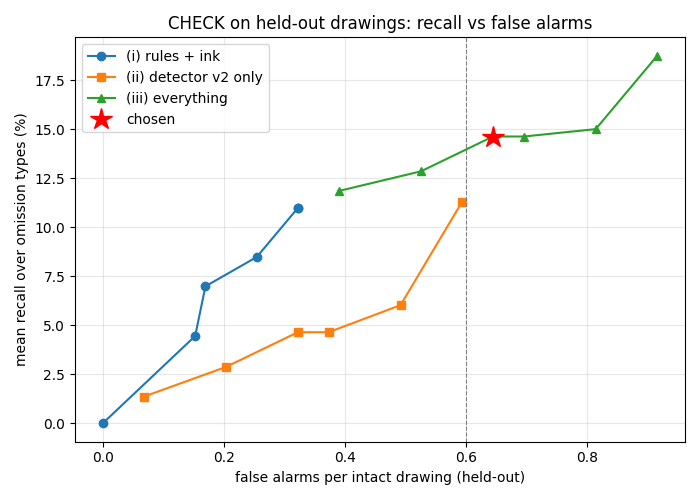
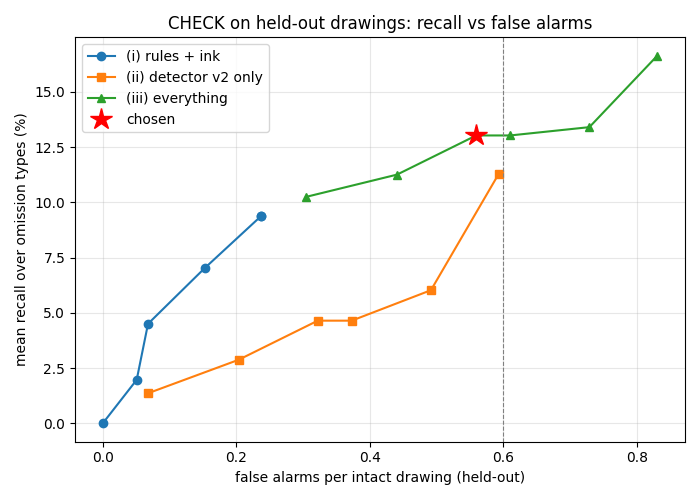
R6/R7/ink tiers evaluated: held-out 13% at 0.56 FA, check set 3/12

diff --git a/outputs/stage2/check_curve.md b/outputs/stage2/check_curve.md
@@ -1,42 +1,42 @@
 # Held-out trade-off: recall vs false alarms (parser v2B, detector v2, erasure v2)
 
-59 intact + 200 omissions (image_eval's held-out cases). Chosen setting: 0.9 / 20 px detector, C8 >= 200.0, R5, ink < 3.0 (relevant doors). Figure: outputs/stage2/check_curve.png.
+59 intact + 200 omissions (image_eval's held-out cases). Chosen setting: see 'Chosen point' at the end. Figure: outputs/stage2/check_curve.png.
 
 ## (i) rules + ink
 
-| detector (threshold / min blob) | C8 min area | R5 | ink check | false alarms / intact | mean recall | door (a) | door (b) | window | wall | railing | fixture | room |
-|---|---|---|---|---|---|---|---|---|---|---|---|---|
-| off | 2756 | off | off | 0.00 | 0% | 0% | 0% | 0% | 0% | 0% | 0% | 0% |
-| off | 200 | off | off | 0.15 | 4% | 24% | 0% | 3% | 0% | 0% | 0% | 4% |
-| off | 200 | on | off | 0.17 | 7% | 24% | 0% | 3% | 3% | 0% | 0% | 18% |
-| off | 200 | on | 0.5 (relevant doors) | 0.25 | 8% | 24% | 7% | 3% | 3% | 0% | 0% | 21% |
-| off | 200 | on | 3.0 (relevant doors) | 0.32 | 11% | 28% | 10% | 3% | 7% | 0% | 0% | 29% |
-| off | 200 | on | 3.0 (relevant doors) | 0.32 | 11% | 28% | 10% | 3% | 7% | 0% | 0% | 29% |
+| detector (threshold / min blob) | C8 min area | R5 | ink: R5 pairs / other interior | R6 | R7 | false alarms / intact | mean recall | door (a) | door (b) | window | wall | railing | fixture | room |
+|---|---|---|---|---|---|---|---|---|---|---|---|---|---|---|
+| off | 2756 | off | off | off | off | 0.00 | 0% | 0% | 0% | 0% | 0% | 0% | 0% | 0% |
+| off | 700 | off | off | off | off | 0.05 | 2% | 14% | 0% | 0% | 0% | 0% | 0% | 0% |
+| off | 700 | on | off | off | off | 0.07 | 5% | 14% | 0% | 0% | 3% | 0% | 0% | 14% |
+| off | 700 | on | 1.5 / off | off | off | 0.15 | 7% | 14% | 7% | 0% | 3% | 0% | 0% | 25% |
+| off | 700 | on | 1.5 / 1.0 | off | off | 0.24 | 9% | 17% | 14% | 0% | 3% | 0% | 3% | 29% |
+| off | 700 | on | 1.5 / 1.0 | x1.2 | off | 0.24 | 9% | 17% | 14% | 0% | 3% | 0% | 3% | 29% |
 
 ## (ii) detector v2 only
 
-| detector (threshold / min blob) | C8 min area | R5 | ink check | false alarms / intact | mean recall | door (a) | door (b) | window | wall | railing | fixture | room |
-|---|---|---|---|---|---|---|---|---|---|---|---|---|
-| 0.98 / 20 px | off | off | off | 0.07 | 1% | 3% | 0% | 3% | 0% | 0% | 3% | 0% |
-| 0.95 / 20 px | off | off | off | 0.20 | 3% | 3% | 0% | 7% | 0% | 0% | 3% | 7% |
-| 0.9 / 20 px | off | off | off | 0.32 | 5% | 3% | 0% | 7% | 0% | 0% | 8% | 14% |
-| 0.8 / 20 px | off | off | off | 0.37 | 5% | 3% | 0% | 7% | 0% | 0% | 8% | 14% |
-| 0.7 / 20 px | off | off | off | 0.49 | 6% | 3% | 0% | 7% | 3% | 0% | 11% | 18% |
-| 0.5 / 20 px | off | off | off | 0.59 | 11% | 7% | 3% | 10% | 7% | 0% | 16% | 36% |
+| detector (threshold / min blob) | C8 min area | R5 | ink: R5 pairs / other interior | R6 | R7 | false alarms / intact | mean recall | door (a) | door (b) | window | wall | railing | fixture | room |
+|---|---|---|---|---|---|---|---|---|---|---|---|---|---|---|
+| 0.98 / 20 px | off | off | off | off | off | 0.07 | 1% | 3% | 0% | 3% | 0% | 0% | 3% | 0% |
+| 0.95 / 20 px | off | off | off | off | off | 0.20 | 3% | 3% | 0% | 7% | 0% | 0% | 3% | 7% |
+| 0.9 / 20 px | off | off | off | off | off | 0.32 | 5% | 3% | 0% | 7% | 0% | 0% | 8% | 14% |
+| 0.8 / 20 px | off | off | off | off | off | 0.37 | 5% | 3% | 0% | 7% | 0% | 0% | 8% | 14% |
+| 0.7 / 20 px | off | off | off | off | off | 0.49 | 6% | 3% | 0% | 7% | 3% | 0% | 11% | 18% |
+| 0.5 / 20 px | off | off | off | off | off | 0.59 | 11% | 7% | 3% | 10% | 7% | 0% | 16% | 36% |
 
 ## (iii) everything
 
-| detector (threshold / min blob) | C8 min area | R5 | ink check | false alarms / intact | mean recall | door (a) | door (b) | window | wall | railing | fixture | room |
-|---|---|---|---|---|---|---|---|---|---|---|---|---|
-| 0.98 / 20 px | 200 | on | 3.0 (relevant doors) | 0.39 | 12% | 28% | 10% | 7% | 7% | 0% | 3% | 29% |
-| 0.95 / 20 px | 200 | on | 3.0 (relevant doors) | 0.53 | 13% | 28% | 10% | 10% | 7% | 0% | 3% | 32% |
-| 0.9 / 20 px | 200 | on | 3.0 (relevant doors) | 0.64 | 15% | 28% | 10% | 10% | 7% | 0% | 8% | 39% |
-| 0.8 / 20 px | 200 | on | 3.0 (relevant doors) | 0.69 | 15% | 28% | 10% | 10% | 7% | 0% | 8% | 39% |
-| 0.7 / 20 px | 200 | on | 3.0 (relevant doors) | 0.81 | 15% | 28% | 10% | 10% | 7% | 0% | 11% | 39% |
-| 0.5 / 20 px | 200 | on | 3.0 (relevant doors) | 0.92 | 19% | 31% | 14% | 14% | 10% | 0% | 16% | 46% |
+| detector (threshold / min blob) | C8 min area | R5 | ink: R5 pairs / other interior | R6 | R7 | false alarms / intact | mean recall | door (a) | door (b) | window | wall | railing | fixture | room |
+|---|---|---|---|---|---|---|---|---|---|---|---|---|---|---|
+| 0.98 / 20 px | 700 | on | 1.5 / 1.0 | x1.2 | off | 0.31 | 10% | 17% | 14% | 3% | 3% | 0% | 5% | 29% |
+| 0.95 / 20 px | 700 | on | 1.5 / 1.0 | x1.2 | off | 0.44 | 11% | 17% | 14% | 7% | 3% | 0% | 5% | 32% |
+| 0.9 / 20 px | 700 | on | 1.5 / 1.0 | x1.2 | off | 0.56 | 13% | 17% | 14% | 7% | 3% | 0% | 11% | 39% |
+| 0.8 / 20 px | 700 | on | 1.5 / 1.0 | x1.2 | off | 0.61 | 13% | 17% | 14% | 7% | 3% | 0% | 11% | 39% |
+| 0.7 / 20 px | 700 | on | 1.5 / 1.0 | x1.2 | off | 0.73 | 13% | 17% | 14% | 7% | 3% | 0% | 13% | 39% |
+| 0.5 / 20 px | 700 | on | 1.5 / 1.0 | x1.2 | off | 0.83 | 17% | 21% | 17% | 10% | 7% | 0% | 18% | 43% |
 
 ## Chosen point (per type)
 
-| detector (threshold / min blob) | C8 min area | R5 | ink check | false alarms / intact | mean recall | door (a) | door (b) | window | wall | railing | fixture | room |
-|---|---|---|---|---|---|---|---|---|---|---|---|---|
-| 0.9 / 20 px | 200 | on | 3.0 (relevant doors) | 0.64 | 15% | 28% | 10% | 10% | 7% | 0% | 8% | 39% |
+| detector (threshold / min blob) | C8 min area | R5 | ink: R5 pairs / other interior | R6 | R7 | false alarms / intact | mean recall | door (a) | door (b) | window | wall | railing | fixture | room |
+|---|---|---|---|---|---|---|---|---|---|---|---|---|---|---|
+| 0.9 / 20 px | 700 | on | 1.5 / 1.0 | x1.2 | off | 0.56 | 13% | 17% | 14% | 7% | 3% | 0% | 11% | 39% |

diff --git a/outputs/stage2/check_set.md b/outputs/stage2/check_set.md
@@ -4,18 +4,18 @@ found = a hole overlaps the omission; restored = the expected class was added th
 
 | # | drawing | omission | found | restored | extra | correct | holes | s |
 |---|---|---|---|---|---|---|---|---|
-| 1 | colorful-11261 | door (a) | yes | yes | 0 | **yes** | 1 | 40 |
+| 1 | colorful-11261 | door (a) | yes | yes | 0 | **yes** | 1 | 38 |
 | 2 | colorful-1148 | door (a) | yes | yes | 0 | **yes** | 2 | 61 |
-| 3 | colorful-1261 | door (b) | no | no | 4 | no | 4 | 123 |
+| 3 | colorful-1261 | door (b) | no | no | 4 | no | 4 | 121 |
 | 4 | colorful-13689 | door (b) | no | no | 0 | no | 0 | 2 |
 | 5 | colorful-13513 | window | no | no | 0 | no | 0 | 1 |
 | 6 | colorful-13804 | window | no | no | 0 | no | 0 | 2 |
-| 7 | colorful-13820 | wall | no | no | 1 | no | 1 | 32 |
+| 7 | colorful-13820 | wall | no | no | 5 | no | 6 | 171 |
 | 8 | colorful-13824 | wall | no | no | 0 | no | 0 | 5 |
 | 9 | colorful-13826 | fixture | no | no | 0 | no | 0 | 6 |
 | 10 | colorful-14036 | fixture | no | no | 0 | no | 0 | 1 |
 | 11 | colorful-14126 | room | no | no | 0 | no | 0 | 1 |
-| 12 | colorful-14147 | intact | no | no | 0 | **yes** | 0 | 2 |
+| 12 | colorful-14147 | intact | no | no | 0 | **yes** | 0 | 3 |
 
 ## 1. colorful-11261 (door (a)): automatic verdict correct
 
@@ -69,11 +69,15 @@ Added (messages):
 
 ## 7. colorful-13820 (wall): automatic verdict wrong
 
-Removed: wall. Detected: door (C8). Found no, restored no, extra 1.
+Removed: wall. Detected: door (INK), door (INK), door (INK), door (INK), door (INK), door (INK). Found no, restored no, extra 5.
 
 Added (messages):
 
-- other_room had no door -> door added on the other_room / other_room wall
+- door added on the bedroom / other_room wall
+- door added on the the wall
+- door added on the living / hallway wall
+- door missing (INK) -> nothing added (the model kept the drawing as it was)
+- door added on the other_room / other_room wall
 
 ## 8. colorful-13824 (wall): automatic verdict wrong
 
@@ -124,21 +128,21 @@ Per hole overlapping the omission: new pixels of the hole's type in the RAW hybr
 | 1 | colorful-11261 | door (a) | door (INK) | 11 (11) | 11 | bedroom: 12, door: 11 | door kept (11 px) on the omitted spot |
 | 2 | colorful-1148 | door (a) | door (C8) | 105 (105) | 39 | door: 105 | door kept (39 px) on the omitted spot |
 
-## My verdicts (budget 0.6: detector v2 + C8 + R5 + ink check on R5 pairs; door clipping; sketch prior)
+## My verdicts (+ R6 / R7 / ink tiers)
 
 | # | omission | verdict | why |
 |---|---|---|---|
-| 1 | door (a) | correct | the ink check found the door the parser had drawn back without a symbol; a door drawn at the erased doorway |
-| 2 | door (a) | correct | C8 found the cut-off bedroom; one door of median length on the right wall; no false doors any more (ink check restricted) |
-| 3 | door (b) | wrong | R5 fired at another gap and added a door there; false railing holes, a railing added |
+| 1 | door (a) | correct | ink check (tier 1) found the redrawn door; door drawn at the erased doorway |
+| 2 | door (a) | correct | C8 found the cut-off bedroom; one median door on the right wall |
+| 3 | door (b) | wrong | R5 at another gap (door added there); false railing holes, a railing added |
 | 4 | door (b) | wrong | nothing flagged |
-| 5 | window | wrong | nothing flagged |
-| 6 | window | wrong | nothing flagged |
-| 7 | wall | wrong | the erased wall not found; C8 (now >= 200 px) flagged a small other_room and added a door |
+| 5 | window | wrong | nothing flagged (R6 did not fire) |
+| 6 | window | wrong | nothing flagged (R6 did not fire) |
+| 7 | wall | wrong | the second ink tier is back on this drawing's arc-less interior doors: 6 false door holes, 5 doors added |
 | 8 | wall | wrong | nothing flagged |
 | 9 | fixture | wrong | nothing flagged |
 | 10 | fixture | wrong | nothing flagged |
 | 11 | room | wrong | nothing flagged |
 | 12 | intact | correct | nothing flagged, nothing added |
 
-**Score: 3 / 12 correct.** Previous run: 2 / 12, 1 partly. Settings were not changed based on this set.
+**Score: 3 / 12 correct** (same as the previous run). Settings were not changed based on this set.

diff --git a/outputs/stage2/detection_eval.md b/outputs/stage2/detection_eval.md
@@ -150,3 +150,18 @@ Note: label-level numbers above are on ground-truth label maps; these are on par
 Scope subsets (detector + C8 + R5 + ink (final)): door (a) where the closure cuts a room off: 15 cases, found 53% (53%); door (b) between a bedroom/bathroom and a closed-pair neighbour: 14 cases, found 21% (21%).
 Parser redraws the removed component (mean share of its pixels the parser still labels with the removed class, room = its walls): door (a) 30%, door (b) 80%, window 42%, wall 27%, railing 16%, fixture 4%, room 24%.
 Note: label-level numbers above are on ground-truth label maps; these are on parsed drawings, so parser errors count against detection (and add false alarms).
+
+## Held-out on DRAWINGS: + R6 / R7 / ink tiers (det v2 0.9 / 20, C8 >= 700, R5, ink 1.5 / 1.0, R6 x1.2; 2026-10-19; the final row has no R6, which adds nothing here, see check_curve.md)
+
+59 intact drawings + 200 omissions on 100 other held-out drawings (kinds: door (a) 29, door (b) 29, window 29, wall 29, railing 18, fixture 38, room 28). Erasure: src/stage2/data/erasure.py; then the pipeline's PARSE + CHECK (no fill). Found = a proposal overlaps the omission (in brackets: right type).
+
+| method | false alarms / intact drawing | mean recall | door (a) | door (b) | window | wall | railing | fixture | room |
+|---|---|---|---|---|---|---|---|---|---|
+| detector | 0.32 | 5% | 3% (0%) | 0% (0%) | 7% (7%) | 0% (0%) | 0% (0%) | 8% (8%) | 14% (11%) |
+| detector + C8 | 0.37 | 6% | 14% (14%) | 0% (0%) | 7% (7%) | 0% (0%) | 0% (0%) | 8% (8%) | 14% (11%) |
+| detector + C8 + R5 | 0.39 | 8% | 14% (14%) | 0% (0%) | 7% (7%) | 3% (0%) | 0% (0%) | 8% (8%) | 25% (7%) |
+| detector + C8 + R5 + ink (final) | 0.56 | 13% | 17% (17%) | 14% (14%) | 7% (7%) | 3% (0%) | 0% (0%) | 11% (8%) | 39% (7%) |
+
+Scope subsets (detector + C8 + R5 + ink (final)): door (a) where the closure cuts a room off: 15 cases, found 33% (33%); door (b) between a bedroom/bathroom and a closed-pair neighbour: 14 cases, found 29% (29%).
+Parser redraws the removed component (mean share of its pixels the parser still labels with the removed class, room = its walls): door (a) 30%, door (b) 80%, window 42%, wall 27%, railing 16%, fixture 4%, room 24%.
+Note: label-level numbers above are on ground-truth label maps; these are on parsed drawings, so parser errors count against detection (and add false alarms).
